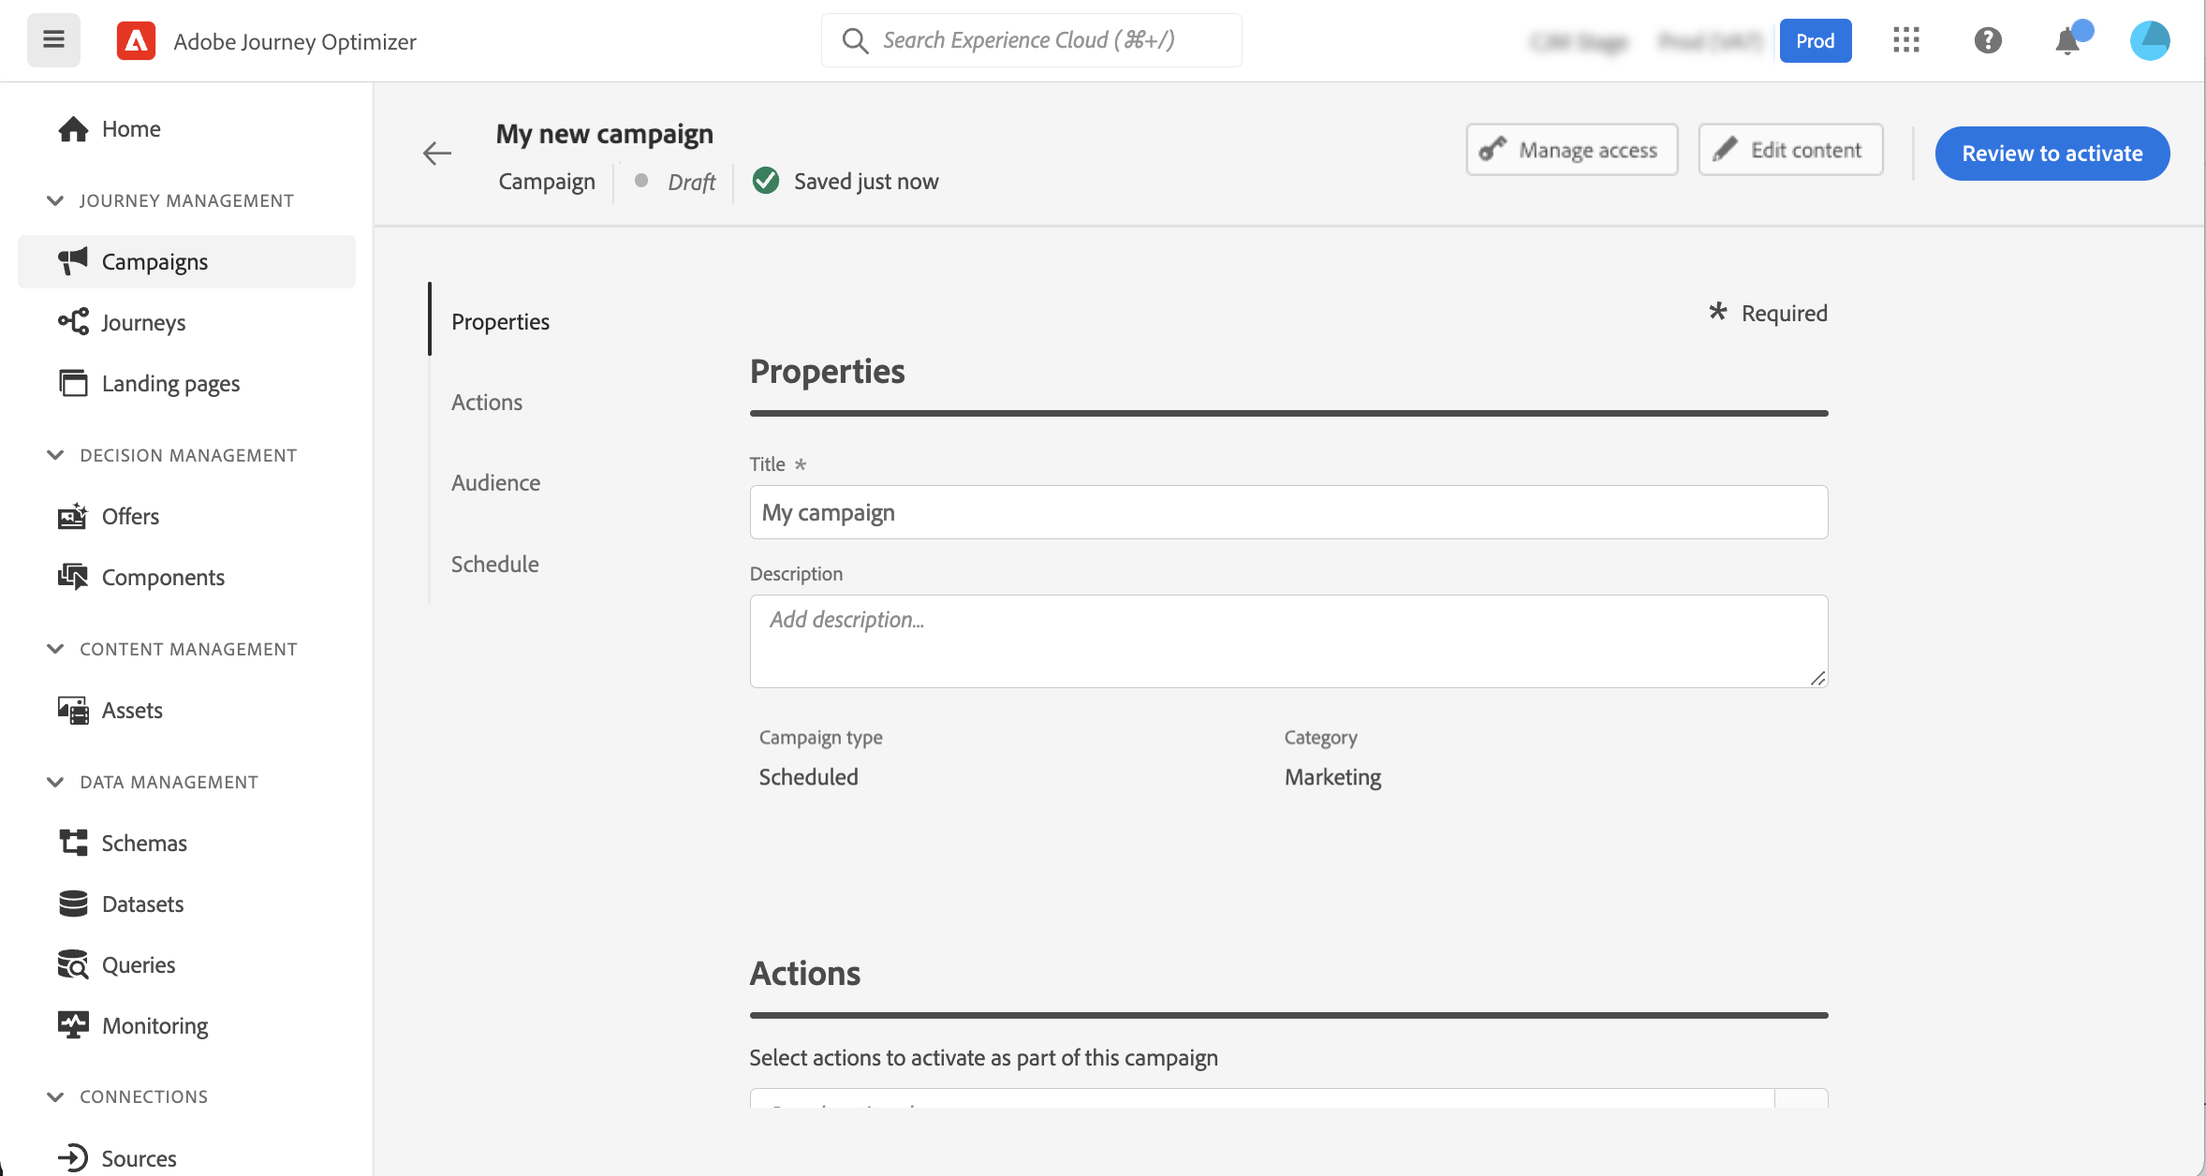
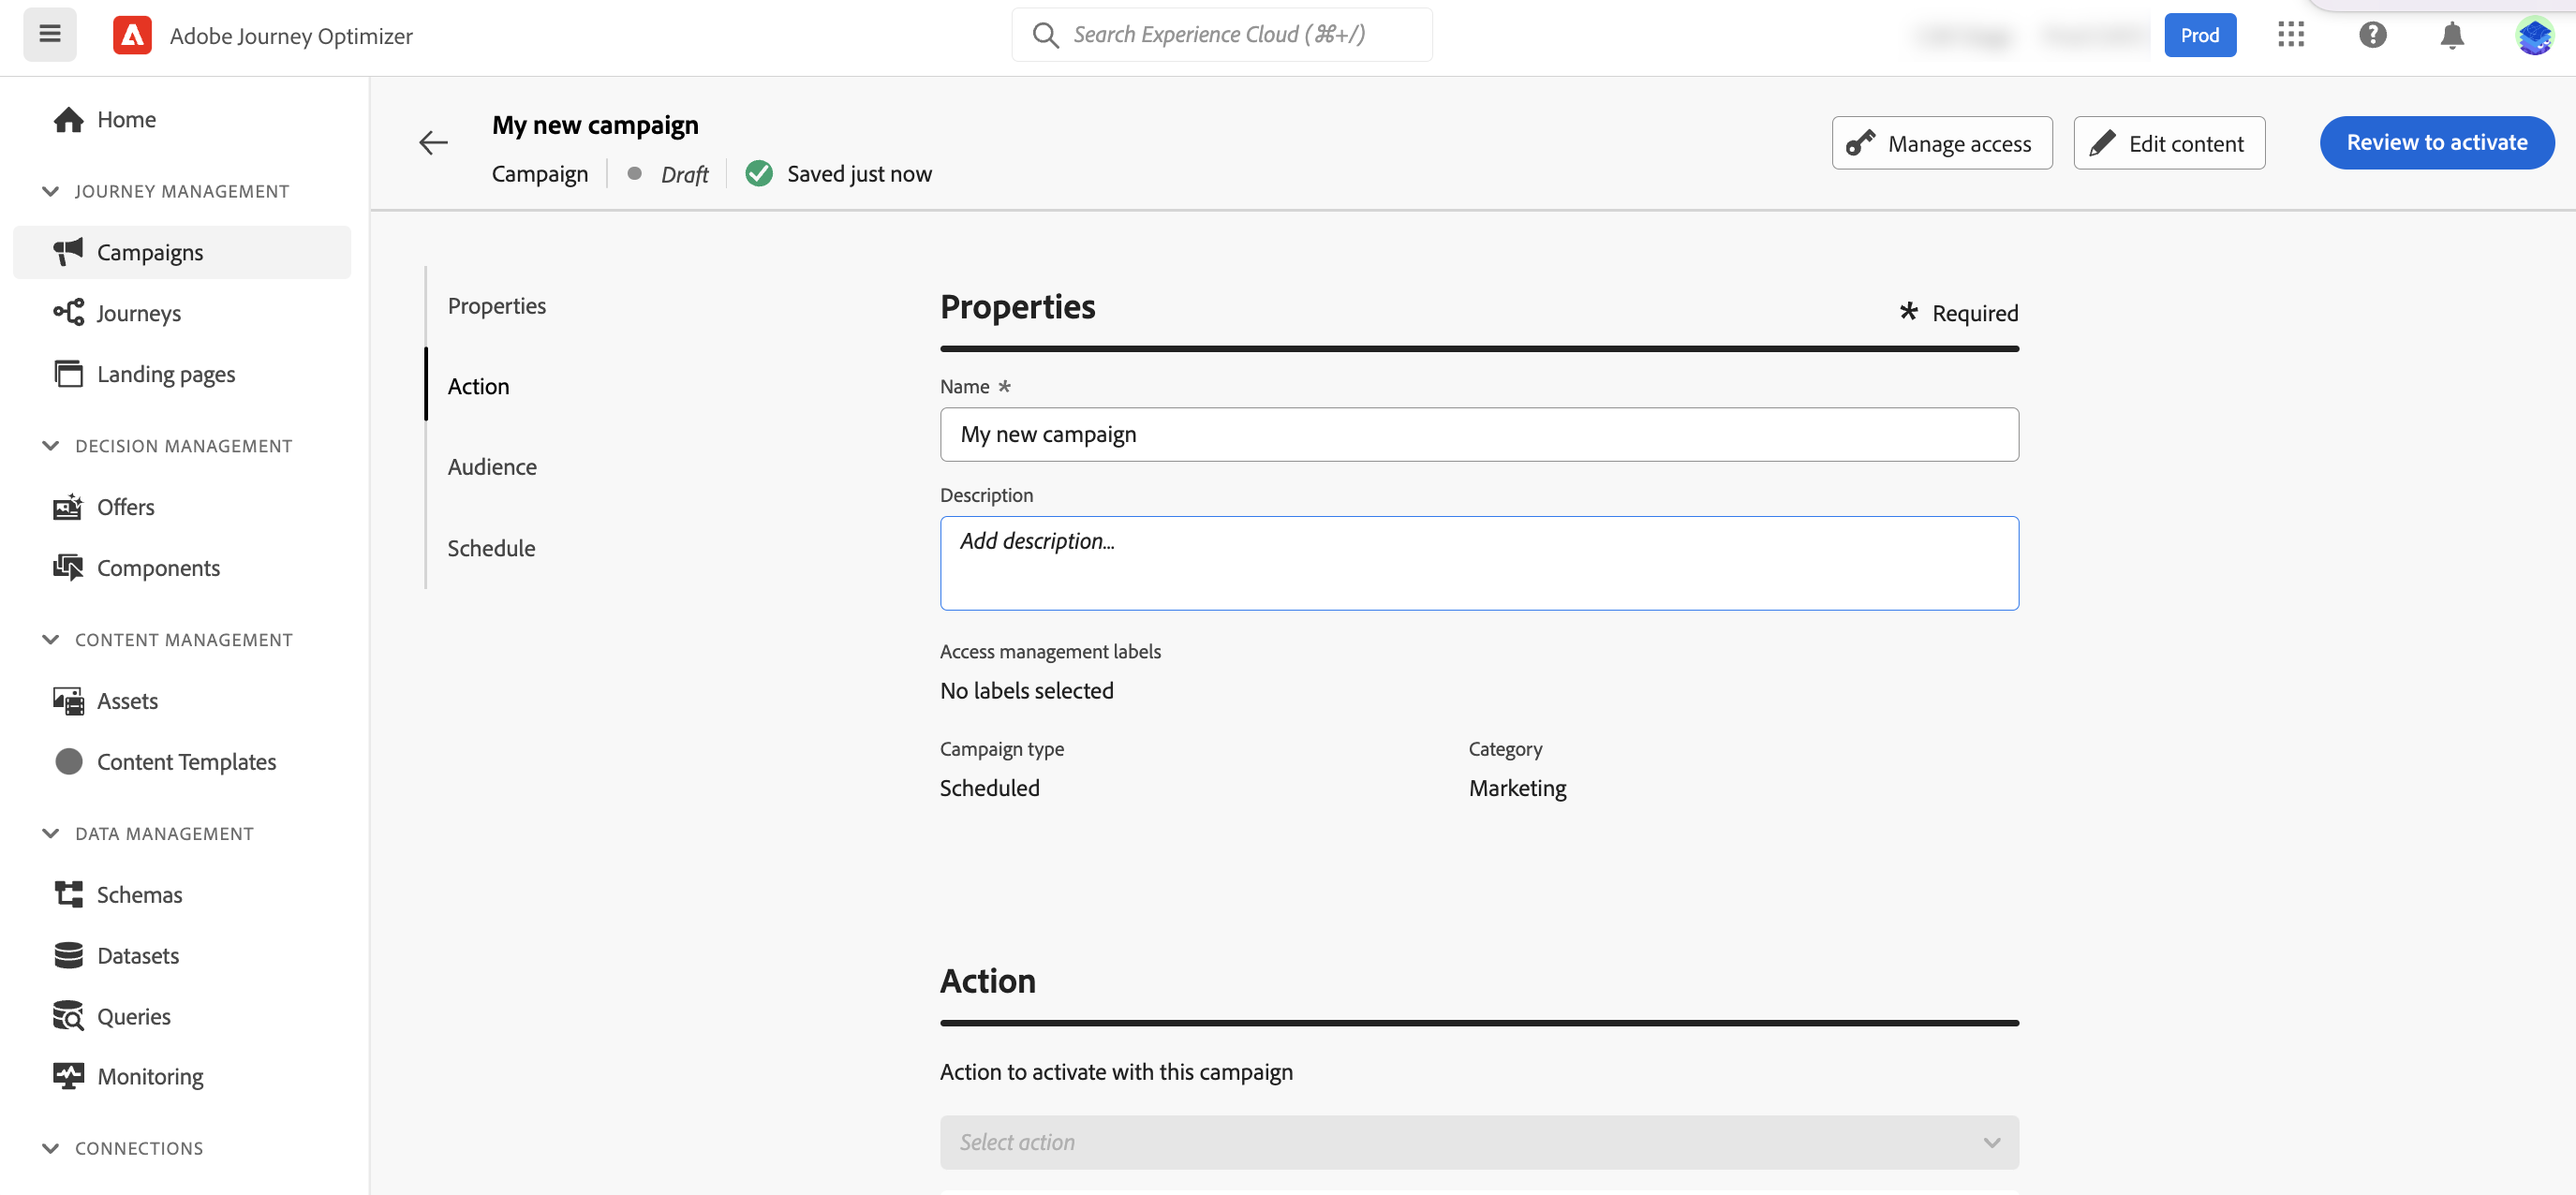
fix campaign

diff --git a/help/using/campaigns/create-campaign.md b/help/using/campaigns/create-campaign.md
@@ -18,24 +18,29 @@ exl-id: 617d623c-e038-4b5b-a367-5254116b7815
 >* [Create channel surfaces](../configuration/channel-surfaces.md) 
 >* [Get started with segments](../segment/about-segments.md)
 
-## Create your first campaign {#create}
+To create a new campaign, access the **[!UICONTROL Campaigns]** menu, then click **[!UICONTROL Create campaign]**. You can also duplicate an existing live campaign to create a new one. [Learn more](modify-stop-campaign.md#duplicate)
 
-1. Access the **[!UICONTROL Campaigns]** menu, then click **[!UICONTROL Create campaign]**.
+![](assets/create-campaign.png)
 
-    >[!NOTE]
-    >
-    >You can also duplicate an existing live campaign to create a new one. [Learn more](modify-stop-campaign.md#duplicate)
+## Choose the campaign type and channel {#campaigntype}
 
-    ![](assets/create-campaign.png)
+>[!CONTEXTUALHELP]
+>id="ajo_campaigns_campaign_type"
+>title="Campaign type"
+>abstract="For a marketing message by specifiyng a sending date, the **Scheduled** type is the most appropriate. However, if you want to send transactional messages like password reset or card abandonment, the **API-triggered** type is the best choice."
 
-1. In the **[!UICONTROL Properties]** section, specify how you want to execute the campaign:
+>[!CONTEXTUALHELP]
+>id="ajo_campaigns_campaign_category"
+>title="Campaign category"
+>abstract="Category value is directly associated to the campaign type value. Schedule campaign type for the **Marketing** category and API-triggered type for the category **Transactional**"
 
-    * **[!UICONTROL Scheduled]**
-    * **[!UICONTROL API-triggered]**
+1. In the **[!UICONTROL Properties]** section, specify how you want to execute the campaign. There are two types of campaign available:
 
-    For more information about the campaign type and associated involvements, refer to this [section](#campaigntype).
+    * **[!UICONTROL Scheduled]**: execute the campaign immediately or on a specified date. Scheduled campaigns are aimed at sending **marketing** type messages.
 
-1. In the **[!UICONTROL Actions]** section, choose the channel and the channel surface to use to send your message, then click **[!UICONTROL Create]**.
+    * **[!UICONTROL API-triggered]**: execute the campaign using an API call. API-triggered campaigns are aimed at sending **transactional** messages, i.e. messages sent out following an action performed by an individual: password reset, card abandonment etc. [Learn how to trigger a campaign using APIs](api-triggered-campaigns.md)
+
+1. In the **[!UICONTROL Actions]** section, choose the channel and the channel surface to use to send your message.
 
     A surface is a configuration which has been defined by a [System Administrator](../start/path/administrator.md). It contains all the technical parameters for sending the message, such as header parameters, subdomain, mobile apps, etc. [Learn more](../configuration/channel-surfaces.md).
 
@@ -45,12 +50,18 @@ exl-id: 617d623c-e038-4b5b-a367-5254116b7815
     >
     >Only channel surfaces compatible with the marketing campaign type are listed in the drop-down list.
 
+1. Click **[!UICONTROL Create]** to create the campaign.
+
+## Define the campaign properties {#create}
+
 1. Specify a title and a description for the campaign.
 
     <!--To test the content of your message, toggle the **[!UICONTROL Content experiment]** option on. This allows you to test multiple variables of a delivery on populations samples, in order to define which treatment has the biggest impact on the targeted population.[Learn more about content experiment](../campaigns/content-experiment.md).-->
 
 1. To assign custom or core data usage labels to the campaign, click the **[!UICONTROL Manage access]** button. [Learn more on Object Level Access Control (OLA)](../administration/object-based-access.md)
 
+    ![](assets/create-campaign-properties.png)
+    
 ## Create the message {#content}
 
 In the **[!UICONTROL Actions]** section, create the message to send with the campaign. 
@@ -123,38 +134,24 @@ In the **[!UICONTROL Actions]** section, create the message to send with the cam
 >[!CONTEXTUALHELP]
 >id="ajo_campaigns_schedule_start"
 >title="Campaign start"
->abstract="TBC"
+>abstract="Specify a date and time at which the message should be sent."
 
 >[!CONTEXTUALHELP]
 >id="ajo_campaigns_schedule_end"
 >title="Campaign end"
->abstract="TBC"
+>abstract="Specify when a recurring campaign should stop being executed."
 
 >[!CONTEXTUALHELP]
 >id="ajo_campaigns_schedule_triggers"
 >title="Campaign action triggers"
->abstract="TBC"
+>abstract="Define a frequency at which the campaign's message should be sent."
 
-1. To execute your campaign on a specific date or on a recurring frequency, configure the **[!UICONTROL Schedule]** section. [Learn how to schedule campaigns](#schedule)
+By default, campaigns start once they have been activated manually, and end as soon as the message has been sent once.
 
-1. To assign custom or core data usage labels to the campaign, click the **[!UICONTROL Manage access]** button. [Learn more on Object Level Access Control (OLA)](../administration/object-based-access.md)
+You can define a frequency at which the campaign's message should be sent. To do this, use the **[!UICONTROL Action triggers]** options in the campaign creation screen to specify if the campaign should be executed daily, weekly, or monthly.
+
+If you do not want to execute your campaign right after its activation, you can specify a date and time at which the message should be sent using the **[!UICONTROL Campaign start]** option. The **[!UICONTROL Campaign end]** option allows you to specify when a recurring campaign should stop being executed.
+
+![](assets/create-campaign-schedule.png)
 
 Once your campaign is ready, you can review and publish it. [Learn more](#review-activate)
-
-## Campaign type {#campaigntype}
-
->[!CONTEXTUALHELP]
->id="ajo_campaigns_campaign_type"
->title="Campaign type"
->abstract="For a marketing message by specifiyng a sending date, the **Scheduled** type is the most appropriate. However, if you want to send transactional messages like password reset or card abandonment, the **API-triggered** type is the best choice."
-
->[!CONTEXTUALHELP]
->id="ajo_campaigns_campaign_category"
->title="Campaign category"
->abstract="Category value is directly associated to the campaign type value. Schedule campaign type for the **Marketing** category and API-triggered type for the category **Transactional**"
-
-There are two types of campaign available:
-
-* **[!UICONTROL Scheduled]**: execute the campaign immediately or on a specified date. Scheduled campaigns are aimed at sending **marketing** type messages.
-
-* **[!UICONTROL API-triggered]**: execute the campaign using an API call. API-triggered campaigns are aimed at sending **transactional** messages, i.e. messages sent out following an action performed by an individual: password reset, card abandonment etc. [Learn how to trigger a campaign using APIs](api-triggered-campaigns.md)
